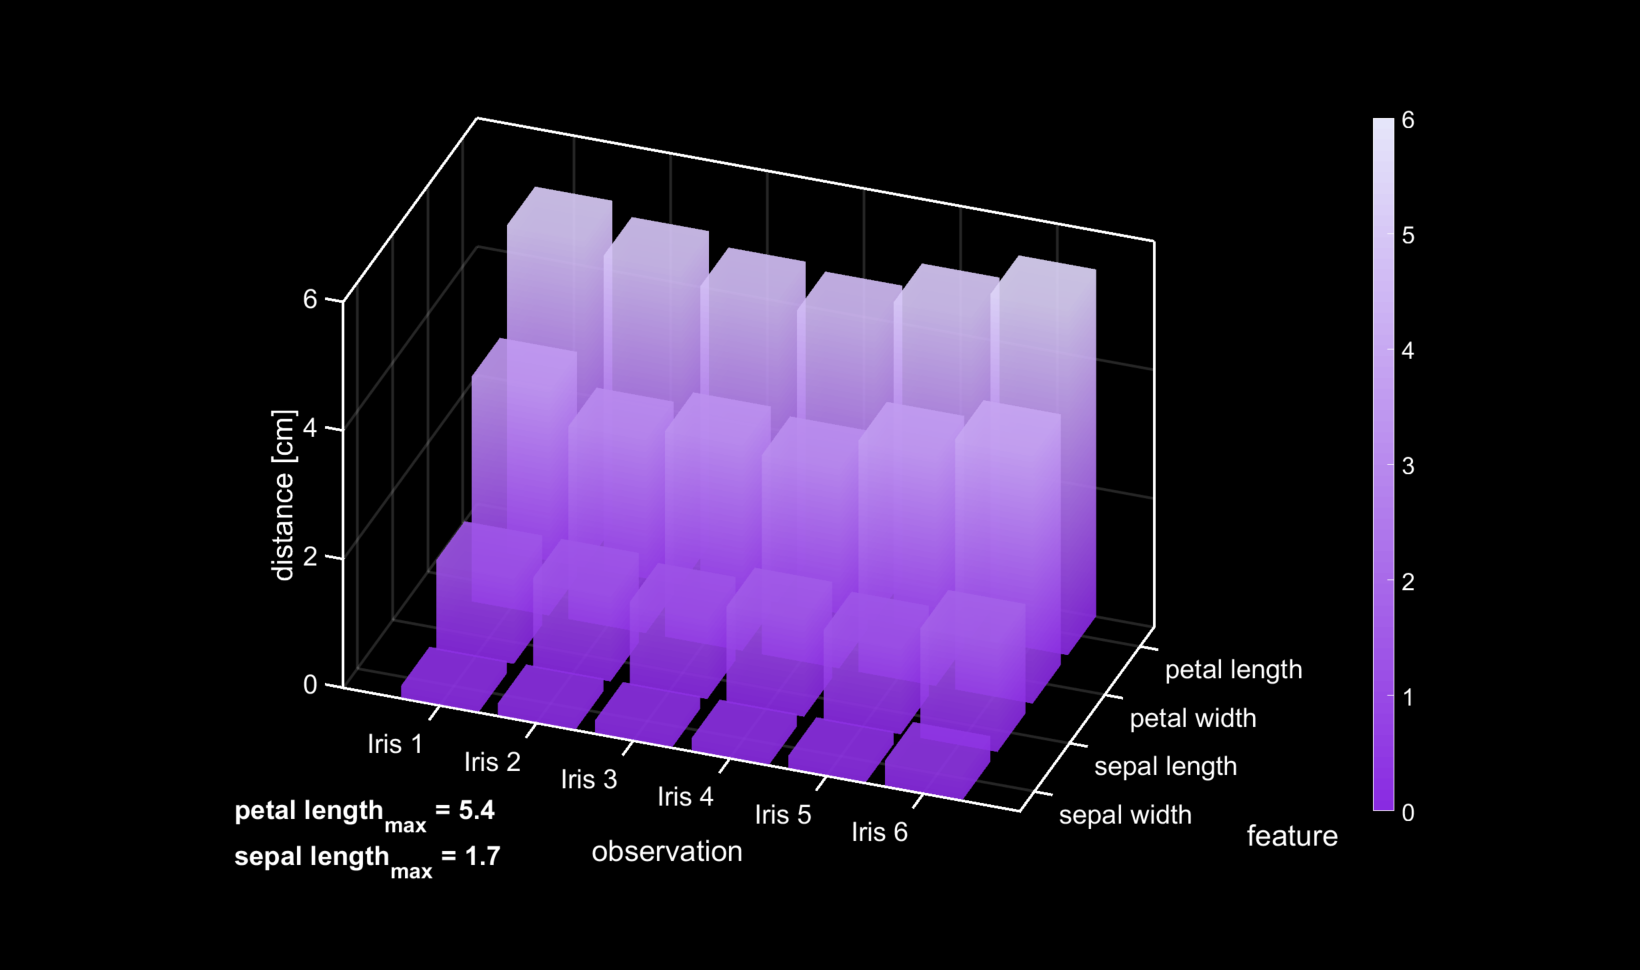
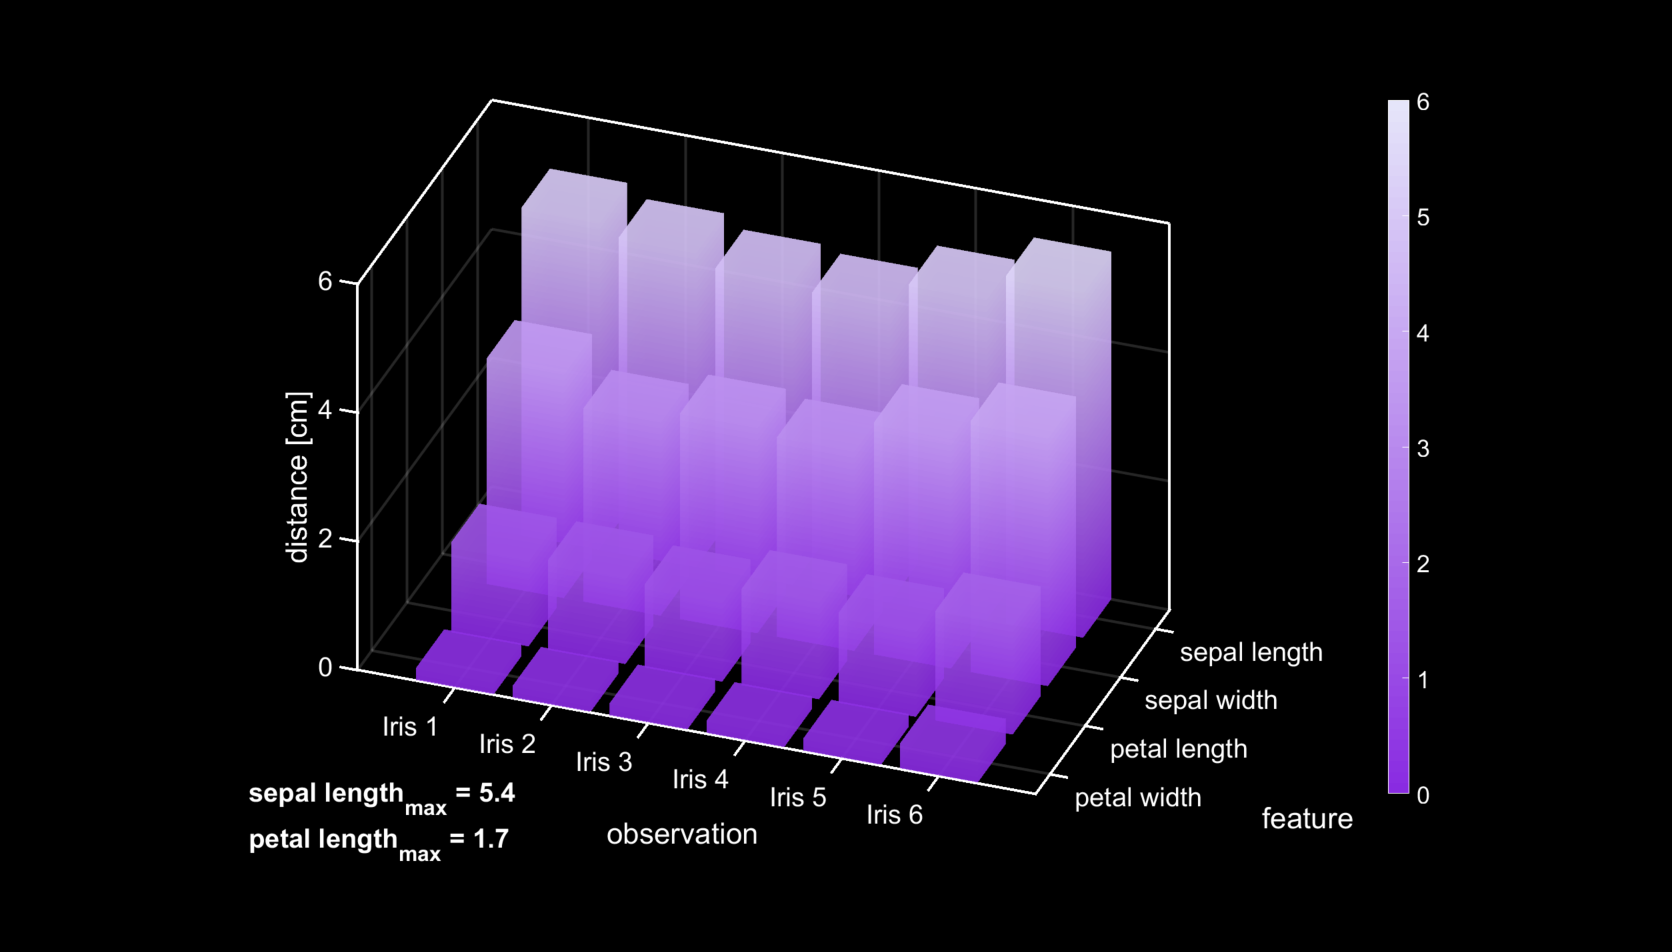
labels fix

diff --git a/call_dark3Dbar_log.m b/call_dark3Dbar_log.m
@@ -13,14 +13,14 @@ chartColors2 = rgb('Lavender');
 
 % load and structure data
 load fisheriris
-irisL_p = meas(1:6,1);
-irisW_p = meas(1:6,2);
-irisL_s = meas(1:6,3);
-irisW_s = meas(1:6,4);
+irisL_s = meas(1:6,1);
+irisW_s = meas(1:6,2);
+irisL_p = meas(1:6,3);
+irisW_p = meas(1:6,4);
 
 % *3D bar plot*
 
-X = [irisW_s, irisL_s, irisW_p, irisL_p];
+X = [irisW_p, irisL_p, irisW_s, irisL_s];
 f1 = figure;
 b = bar3(X);
 for g = 1:length(b) 
@@ -31,8 +31,8 @@ for g = 1:length(b)
     b(g).FaceAlpha = 0.70;
 end
 set(gca, 'XTick', [1 2 3 4])
-set(gca, 'XTickLabel', {'sepal width' 'sepal length' 'petal width' ...
-    'petal length'})
+set(gca, 'XTickLabel', {'petal width' 'petal length' 'sepal width' ...
+    'sepal length'})
 a1 = get(gca,'XTickLabel');
 set(gca,'XTickLabel',a1,'fontsize',fSize)
 set(gca, 'YTick', [1 2 3 4 5 6])
@@ -117,10 +117,10 @@ plot3(ax(2)*[1,1],ax(4)*[1,1],[0.001 ax(6)],'w','linewidth',lSize)
 
 % % comment or adjust to make z-axis log-scale
 % hold on
-% txtCV0 = num2str(max(irisL_p),'%.1f');
-% txtCV1 = num2str(max(irisL_s),'%.1f');
-% text(-2.5,0,0,['petal length_{max} = ' txtCV0, char(10), ...
-%     'sepal length_{max} = ' txtCV1], 'Color', 'w', 'FontSize', fSize, ...
+% txtCV0 = num2str(max(irisL_s),'%.1f');
+% txtCV1 = num2str(max(irisL_p),'%.1f');
+% text(-2.5,0,0,['sepal length_{max} = ' txtCV0, char(10), ...
+%     'petal length_{max} = ' txtCV1], 'Color', 'w', 'FontSize', fSize, ...
 %     'FontWeight', 'bold','HorizontalAlignment', 'Left')
 
 % to save the figure in darkmode

diff --git a/call_dark3Dbar.m b/call_dark3Dbar.m
@@ -13,14 +13,14 @@ chartColors2 = rgb('Lavender');
 
 % load and structure data
 load fisheriris
-irisL_p = meas(1:6,1);
-irisW_p = meas(1:6,2);
-irisL_s = meas(1:6,3);
-irisW_s = meas(1:6,4);
+irisL_s = meas(1:6,1);
+irisW_s = meas(1:6,2);
+irisL_p = meas(1:6,3);
+irisW_p = meas(1:6,4);
 
 % *3D bar plot*
 
-X = [irisW_s, irisL_s, irisW_p, irisL_p];
+X = [irisW_p, irisL_p, irisW_s, irisL_s];
 f1 = figure;
 b = bar3(X);
 for g = 1:length(b) 
@@ -31,8 +31,8 @@ for g = 1:length(b)
     b(g).FaceAlpha = 0.70;
 end
 set(gca, 'XTick', [1 2 3 4])
-set(gca, 'XTickLabel', {'sepal width' 'sepal length' 'petal width' ...
-    'petal length'})
+set(gca, 'XTickLabel', {'petal width' 'petal length' 'sepal width' ...
+    'sepal length'})
 a1 = get(gca,'XTickLabel');
 set(gca,'XTickLabel',a1,'fontsize',fSize)
 set(gca, 'YTick', [1 2 3 4 5 6])
@@ -117,10 +117,10 @@ plot3(ax(2)*[1,1],ax(4)*[1,1],ax(5:6),'w','linewidth',lSize)
 
 % comment or adjust to make z-axis log-scale
 hold on
-txtCV0 = num2str(max(irisL_p),'%.1f');
-txtCV1 = num2str(max(irisL_s),'%.1f');
-text(-2.5,0,0,['petal length_{max} = ' txtCV0, char(10), ...
-    'sepal length_{max} = ' txtCV1], 'Color', 'w', 'FontSize', fSize, ...
+txtCV0 = num2str(max(irisL_s),'%.1f');
+txtCV1 = num2str(max(irisL_p),'%.1f');
+text(-2.5,0,0,['sepal length_{max} = ' txtCV0, char(10), ...
+    'petal length_{max} = ' txtCV1], 'Color', 'w', 'FontSize', fSize, ...
     'FontWeight', 'bold','HorizontalAlignment', 'Left')
 
 % to save the figure in darkmode
